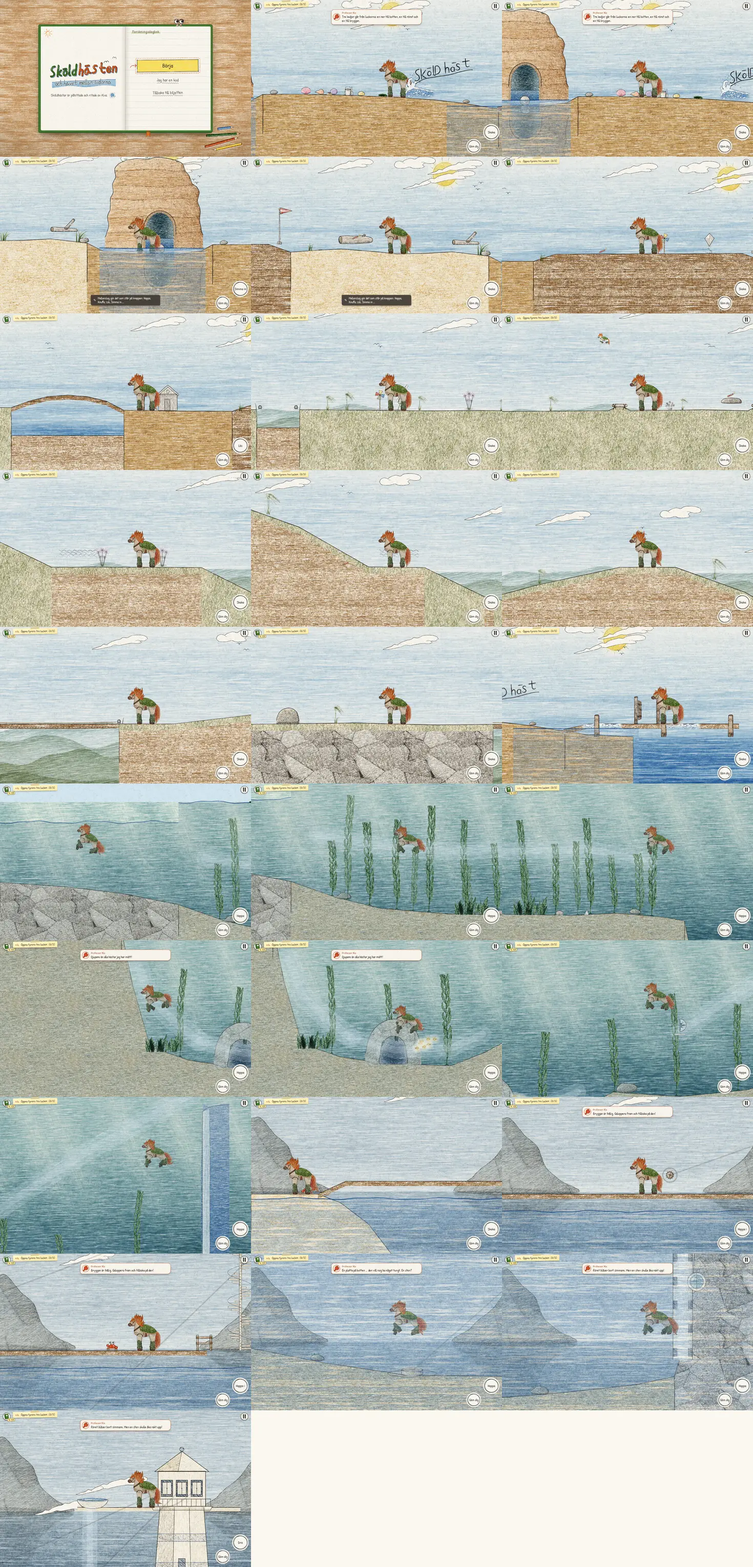
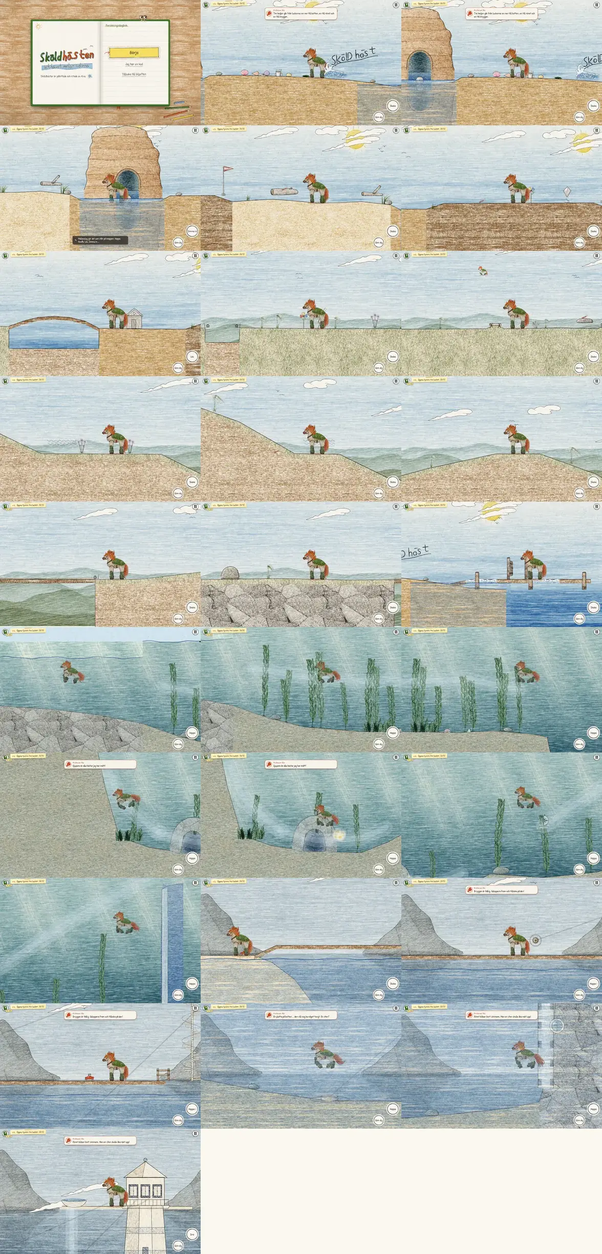
Record final polish evidence, refresh contact sheets and hand over the review branch

diff --git a/skoldhast/HANDOVER.md b/skoldhast/HANDOVER.md
@@ -1,6 +1,6 @@
 # Sköldhästen – handover
 
-Last updated: 29 September 2026. The branch is `ccr-c498dbd6-rfd39d`. The design is in `docs/skoldhast-game-plan.md` (v2); the working rules are in `skoldhast/CLAUDE.md`.
+Last updated: 29 September 2026. The review branch is `codex/skoldhast-polish`, based on `main` at `1af945b`. The design is in `docs/skoldhast-game-plan.md` (v2); the working rules are in `skoldhast/CLAUDE.md`.
 
 ## State
 
@@ -20,8 +20,76 @@ The whole game is built in one pass:
 | Hero (`hero.mjs`, `rig.mjs`, `scripts/skoldhast-art/hero.mjs`) | Done. Her sköldhäst traced in code (route B), rigged with gaits by distance, leg IK on the terrain, leaps, Göm dig, swimming and drifting, the actions, and verlet hair. `dev/hero.html` shows it all. |
 | Characters, table, UI art | Done: Klo with the signs, Kartväktaren, the lyktfiskar, shy creatures, Signe, the table props, the title lettering, the icons. |
 | Scenery art (materials, backdrops, props) | Done: land, sea and bay atlases, evening backdrops, pencil strokes. |
-| Audio (`audio.mjs`) | Done. The theme "Sköldhästens visa" in D dorian in five arrangements, eight stingers, 28 effects, and adaptive layers for speed, underwater and hiding. It still needs a human listen (`dev/audio.html`). |
+| Audio (`audio.mjs`) | Done. The theme "Sköldhästens visa" in D dorian in five arrangements, stingers, synthesized foley, place ambience and adaptive layers for speed, underwater and hiding. It still needs a human listen (`dev/audio.html`). |
 | Ticket integration (`index.html`) | Done. A hidden fourth button, a loading overlay that prefetches `files.json`, Avbryt and retry, and Mira's launch-race guard. |
+
+## Animation, movement, audio and visual polish (29 September)
+
+This pass improves the existing three chapters; `RELEASED_CHAPTER` stays 3.
+The before/after audit and acceptance evidence are in
+`docs/skoldhast/polish-review.md`. The original contact sheets are preserved in
+`docs/skoldhast/shots/k3/before/`; the three current sheets are in `shots/k3/`.
+
+- **Klo:** separate pencil body parts, sideways leg cycle, eased scuttles,
+  bobbing, eye blinks, claw gestures, instrument fidgets, hole entry/emergence,
+  underwater floating and a soft sprite shadow. Lettered frames never mirror.
+  Touch, mouse and **K** give a click, hop/wave and one of **36** shuffled Swedish
+  jokes in the nonblocking hint bubble. A 5.2-second cooldown and visibility,
+  story/dialogue/menu guards protect play. Hero taps, the stick and Följ fingret
+  share input routing; canceled pointers cannot leave steering or gallop held.
+- **Hills:** exposed terrain is one material contour, including exact cliff
+  faces and ramp joins. Hooves query the reachable surface instead of buried
+  ground. Earned ramps grow over 0.65 seconds using the same fixed-step geometry
+  for drawing and collision. The former 121-unit jump is now at most 2.31 units
+  per step in the measured midpoint case. See `docs/skoldhast/hills-review.md`.
+- **Movement:** forward hops and stationary perch hops work, slope speed varies
+  continuously, hurdles use actual landing support and canceled skids respond
+  correctly. Actions survive display frames with no simulation step, and menus
+  clear pending input. Hold-to-hide release cancels a queued tuck, and reopening
+  after a pause starts a live session. Deterministic replay includes 30/60/120/144 Hz.
+- **Swimming:** integrated alternating paddle strokes, surface head lift,
+  diving, floating hair/tail, softer buoyancy and glide. Real world coordinate
+  tests cover feet, hair, particles and shadows. See `docs/skoldhast/movement-polish.md`.
+- **Puzzles/menus:** stable contextual labels, reachable shell tune beside
+  Signe, wet perch hopping, deterministic Spången notes, soft menu cues and
+  scrollable 44-pixel notebook tabs. Portrait prologue cloud tracing now uses
+  the same paper-to-screen transform as the other drawings.
+- **Audio:** warmer arrangements of Sköldhästens visa, gait-timed surface
+  contacts including a hollow pier, water/pencil/page/menu cues, Klo chatter,
+  four place ambiences, darker light reverb and independent volume buses.
+  Offline Chromium/FFmpeg QA reports zero clipping/non-finite samples, maximum
+  sample peak −1.72 dBFS and true peak −1.5 dBFS under extreme overlap. Exact
+  listening instructions and measurements: `docs/skoldhast/audio-polish.md`.
+- **Scenery:** gentler pencil materials, visible distant ridges, underwater
+  shafts/depth, bounded water shimmer and a dedicated warm evening bay. No
+  heavy filters or downloaded sound/art were added. See `docs/skoldhast/scenery-polish.md`.
+
+Final pure gate: **66/66 tests pass**, including the whole-game robot. Required
+launch, save, touch (both phone sizes), guide, pages and finale browser checks
+pass; focused Klo, notebook, hills, audio and fresh journey evidence is linked
+from `docs/skoldhast/polish-review.md`.
+
+Additional checks:
+
+```sh
+node tests/browser/skoldhast-klo.mjs 844x390
+node tests/browser/skoldhast-klo.mjs 390x844
+node tests/browser/skoldhast-notebook.mjs
+node tests/browser/skoldhast-journey.mjs --viewport 844x390 --input touch --out /tmp/journey
+node tests/browser/skoldhast-journey.mjs --viewport 390x844 --input keyboard --out /tmp/journey
+node tests/browser/skoldhast-hills.mjs --viewport 844x390 --out /tmp/hills
+node scripts/skoldhast-audio-check.mjs --out /tmp/audio --no-images
+```
+
+Run the journey for both input modes at both phone sizes. It starts a fresh
+save through the real title/prologue and sends DOM/CDP input, then accelerates
+the fixed simulation to cover P1–P8 and the implemented extras. It is an
+automated playthrough, not a human usability or physical-device performance test.
+
+The first-playable bundle is **2,708,659 bytes (2.58 MiB)**, below both 3 MB and the build's
+3 MiB gate. Human listening and performance/feel on Alva's actual device remain
+unverified. Foreground kelp can still briefly soften/overlap the hero; no new
+missing scenery or terrain seams were found in the 27-place review.
 
 ## Polish round (29 September): understandable, forgiving, springier
 
@@ -75,7 +143,7 @@ After the first playtest ("it is very unclear what to do", "I am a bit stuck som
 - Every panel has an ✕, and a tap on the backdrop closes it (on a report it means continue). J and Esc close panels.
 - Settings opened from the pause menu keep the game paused.
 - **Known:**
-  - on a 320 px-wide phone the journal tabs are 37 px wide, under the 44 px target;
+  - the earlier 320 px tab-size issue is fixed by a scrollable row of 44 px targets;
   - only headless Chromium has been used, never a real phone.
 
 ## Fresh-eyes playtest (29 September) and what it changed
@@ -136,20 +204,19 @@ An agent played for about two hours with the keyboard at 844×390. Its report, w
 
 ## Frågor till Pappa (still open)
 
-1. **Original drawing:** is there a flat scan or a straight photo of the paper drawing? With one, the hero can be cut from her real strokes (route A).
-2. **Device:** which phone or tablet, which browser, upright or sideways? May `#skoldhast` open the game directly?
-3. **Surprise and dates:** keep it hidden until Kapitel 1 is revealed? Which dates?
-4. **Her words (Q5):** (a) verbatim, (b) only her question and "Sköldhästar är fantastiska", or (c) paraphrase only.
-   - Hyphen or not in "kelp-skogarna"?
-   - Commit `d843277` on this branch quoted her full text. If the answer isn't (a), squash the branch before merging, or ask Claude to rewrite its history.
-5. **Reference crop:** may a creature-only crop of her drawing be committed? It would have no name, no magazine, EXIF stripped and your scribble removed.
-6. **Family touches:** Mira's two lines in the epilogue? The three star-tiger stars (currently on)? A "Publicerad!" clipping? Recorded voices (your neigh, Mira as Klo)?
-7. **Dedication:** would you like to write one?
-8. **Mira:** her own save slot with the easier help? Can she keep the secret?
+- Which phone/tablet and browser should receive the final listening, performance
+  and touch-feel check?
+- After reviewing this branch, should it be merged to main?
+
+The current instruction is definitive: first name only, `HER_TEXT` stays null,
+no photos/scans, and the ticket button stays hidden behind `?skoldhast` (the
+existing `#skoldhast` alias only reveals the button). Earlier requests for scans
+or permission to quote her printed words are superseded. No new public reveal
+or additional chapter release is part of this branch.
 
 ## Known issues and next steps
 
-- **Performance on a real phone is unmeasured.** Headless Chromium renders WebGL in software (15–50 fps there), and the JS side takes 1–3 ms per frame. Measure with `?debug` on Alva's device and lower the resolution cap in `main.mjs` `sizes()` if needed.
+- **Performance on a real phone is unmeasured.** Headless Chromium renders WebGL in software, so its frame rate is not a device benchmark. Measure with `?debug` on Alva's device and lower the resolution cap in `main.mjs` `sizes()` if needed.
 - **Audio** has passed automatic checks (levels, seams, tuning) but needs a listen.
 - **Not built** (optional in the plan):
   - O7 Flytbryggan (stretch);

diff --git a/docs/skoldhast/polish-review.md b/docs/skoldhast/polish-review.md
@@ -28,4 +28,29 @@ Software Chromium cannot establish performance on a physical phone.
 
 ## Acceptance evidence
 
-To be filled after implementation: tests, browser matrix, audio measurements, payload size, after comparisons and remaining checks.
+- Final pure suite: 66 passing tests including the whole-game robot, deterministic movement/growth, rig coordinates, terrain contours, audio signals, contextual puzzles, Klo and retained action presses.
+- Required launch, save/continue, guide, page-turn and finale browser checks pass. Standard touch checks pass at both phone sizes. The Klo follow-finger checks pass at both phone sizes. Four fresh journey variants cover both input modes and orientations; see the focused puzzle report.
+- Audio: 60 scenes/cues and 79 pitch notes rendered through Chromium OfflineAudioContext. Zero clipped/non-finite samples; worst sample peak −1.72 dBFS, true peak −1.5 dBFS; muted bus isolation below −100 dBFS. See [audio results](audio-polish.md) and `audio-qa.json`.
+- First playable: 2.58 MiB (about 2.709 MB including compressed source, CSS and JSON), below 3 MB. No downloaded audio, heavy filter or photo/scan was added.
+- All 27 stops captured at 844×390, 390×844 and 1440×900. Every sheet was compared with its baseline. The [scenery review](scenery-polish.md) records composition, materials, water, evening and underwater findings.
+- The [hill review](hills-review.md) includes 28 matching before/after captures and four actual simulated walk/gallop routes. No support mismatch, unintentional airborne steps or console errors. Ramp growth starts with a 0.059-unit rise and stays at or below 2.31 units per step in the measured case.
+
+## Critical comparison and remaining checks
+
+The ground no longer switches abruptly between vertical grass-filled polygons and earth at overlapping ramp edges. Its pencil outline follows the same exposed contour as collision. Uphill planted feet remain on that contour. The slow-growth comparison shows the player rising with the ramp instead of jumping to its final height.
+
+Landscape and desktop have more legible distant ridges and softer earth hatching. Portrait retains the hero silhouette and usable controls. Water now has restrained moving pencil highlights; evening beach/bay have a warm reflection path. Underwater has clearer light shafts and distant silhouettes. Foreground kelp can still briefly overlap/soften the hero; no new terrain holes or missing scenes were found.
+
+The fresh touch route also exposed an off-screen cloud drawing in the portrait prologue; its paper coordinates are now scaled correctly. Follow-finger taps on Klo defer steering so camera lead cannot move him away before release. Menus drop pending movement and action edges, and display frames faster than 120 Hz retain actions until a simulation step. Hold-to-hide releases cancel pending tucks, and a paused game can close and reopen without remaining frozen.
+
+These are automated browser/simulation checks and visual inspections, not a physical-phone benchmark or a human listening test. Device frame pacing, subjective gait/swimming feel and speaker/headphone balance remain for the family device. Optional design items that were already absent (Flytbryggan and additional chapter pencils) remain outside this polish pass.
+
+## After contact sheets
+
+![Landscape after](shots/k3/sheet-844x390.webp)
+![Portrait after](shots/k3/sheet-390x844.webp)
+![Desktop after](shots/k3/sheet-1440x900.webp)
+
+## Exact hill comparison
+
+![The same hill positions before and after](shots/k3/hills/hills-before-after-844x390.webp)

diff --git a/docs/skoldhast/scenery-polish.md b/docs/skoldhast/scenery-polish.md
@@ -3,8 +3,7 @@
 ## Before review
 
 Reviewed the 27 tour places at 844 × 390, 390 × 844 and 1440 × 900.
-The fresh baseline is captured under `/tmp/skoldhast-before/<viewport>/`;
-the previous committed tour confirms the same visual issues at all three sizes.
+The fresh baseline is preserved in `shots/k3/before/`, one sheet per viewport.
 
 | Places | Observed issue | Planned correction |
 | --- | --- | --- |
@@ -60,3 +59,28 @@ answer, the now-visible steppe ridges, kelp shafts and the bay after the finale.
 playable at 2.57 MB during this pass. The final combined budget is recorded in
 the handover. Actual GPU memory use and frame rate still require a real phone;
 these browser captures use software WebGL.
+
+## Final before/after comparison
+
+All 27 final tour stops, plus the title, were visually compared with
+`shots/k3/before/` at **844 × 390, 390 × 844 and 1440 × 900**.
+
+| Stops | Final comparison |
+| --- | --- |
+| 01–06, beach through Streckbron | The lighter wet sand retains its ochre colour and paper tooth. The hero, shells and pool answer remain legible; bridge silhouettes and filled faces remain continuous. |
+| 07–13, steppe through Klippudden | Distant green ridges now remain visible above the foreground at all three sizes. They stay behind the graphite walk edge and do not compete with the orange mane. No new gaps or exposed backdrop edges appear at the photographed terraces and cleft. |
+| 14, jetty | Frozen foam, posts and waterline remain distinct. Highlights are restrained, preserving the frozen-sea appearance. |
+| 15–21, kelp forest | Shafts read more clearly at phone size; teal depth and dark foreground fronds remain distinct. The brighter background does not erase the hero's outline. The solved vault has no transient darkness rectangle in the final captures. |
+| 22–27, bay through gallery | Pier, shore, underwater floor and gallery retain continuous edges. Cool water stays subordinate to the cream lighthouse and warm hero. Surface-light changes are subtle at sheet scale; the evening supplement shows the larger palette change. |
+
+No new blank regions, missing scenery or ground-fill holes were identified in
+these final static views. The title and outline-cloud treatment remain
+consistent with the notebook style.
+
+Limits: screenshots cannot establish animation smoothness, physical hoof
+contact or real-phone frame rate. Swimming poses, kelp positions and temporary
+hints differ with capture timing, so these are visual comparisons, not pixel
+diffs. The foreground water still lowers underwater contrast, and a nearby kelp
+frond can briefly cross the hero; these existing composition limits remain
+visible in the aquatic stops. The all-place tour uses a chapter-three save, so
+its goal note is not a fresh-play guidance check.
